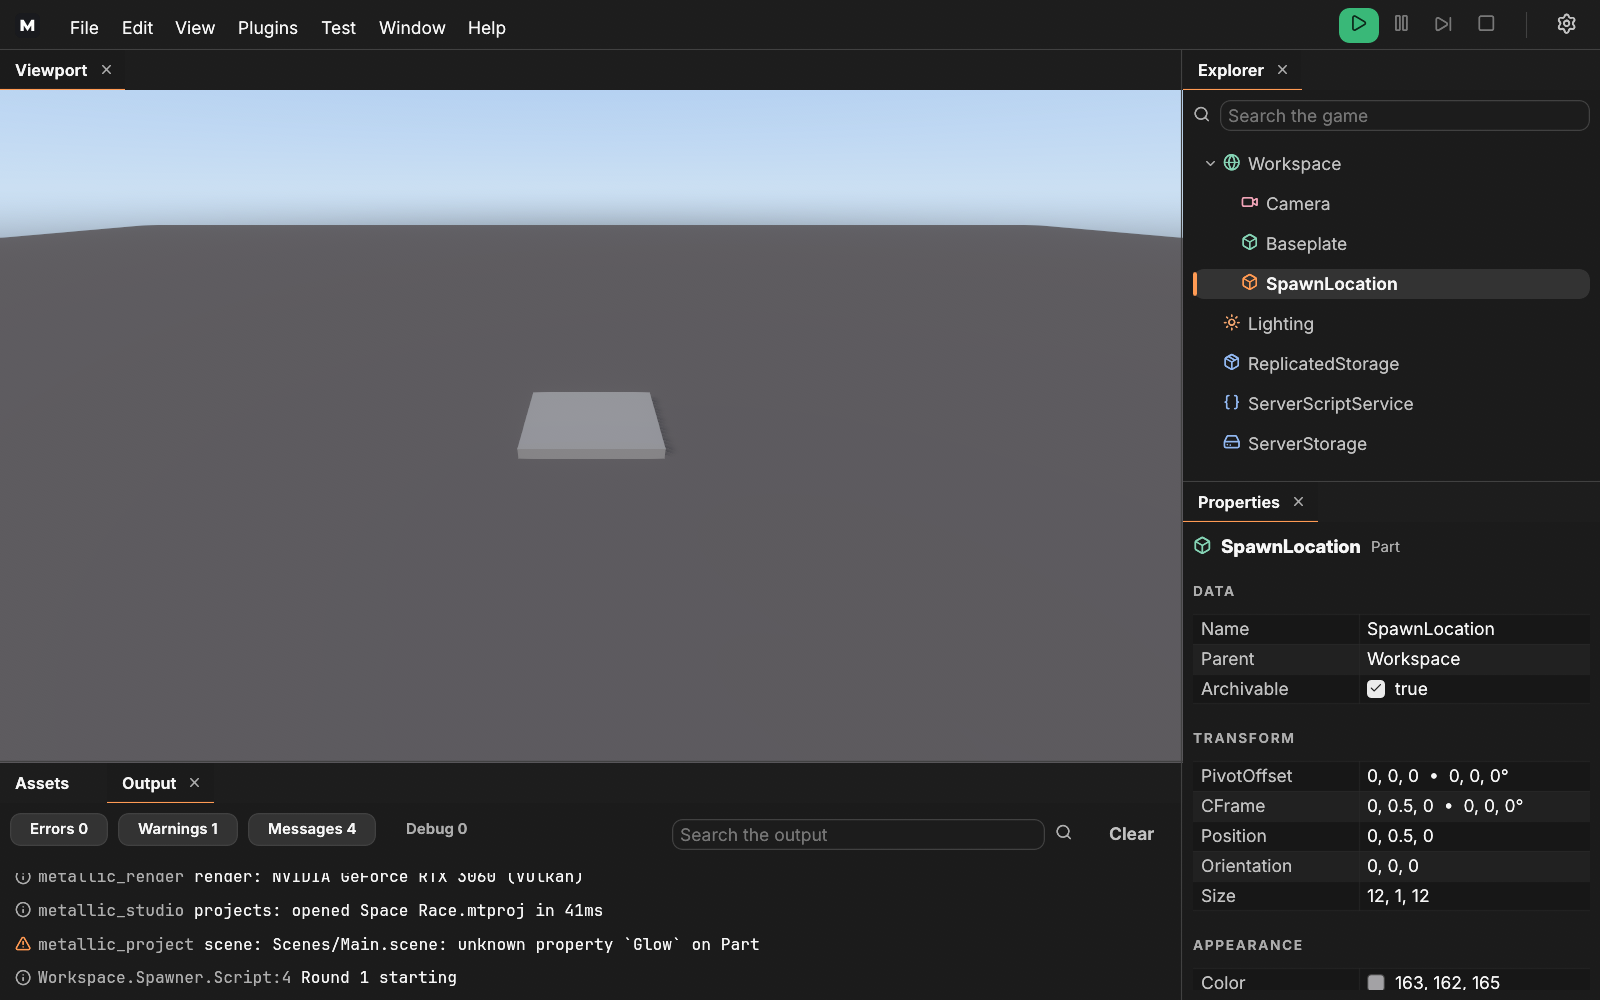
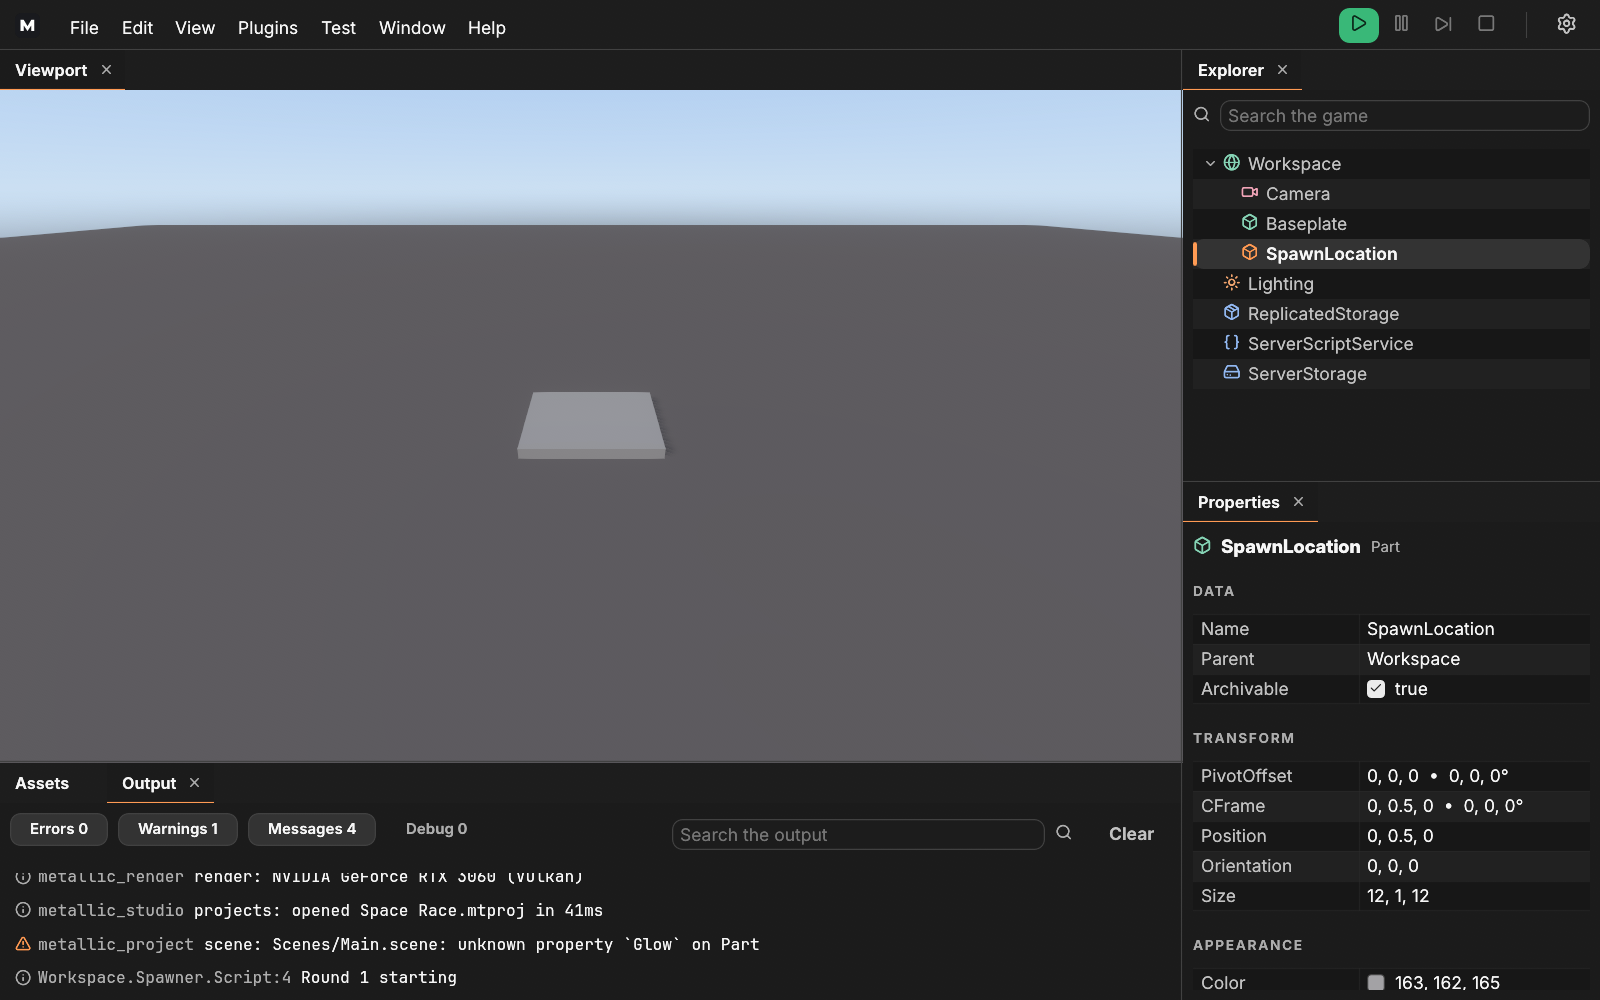
studio: Explorer rows striped and without gaps (#274) (#280)

Changed region(s): [[0.75, 0.186, 1.0, 0.465]]

diff --git a/apps/studio/src/panels/explorer.rs b/apps/studio/src/panels/explorer.rs
@@ -214,17 +214,20 @@ impl Panel for Explorer {
         if let Some(target) = editor.explorer.scroll_to.take()
             && let Some(index) = rows.iter().position(|row| row.id == target)
         {
-            let spacing = ui.spacing().item_spacing.y;
-            let top = index as f32 * (row_height + spacing);
+            // The rows touch (#274): no spacing between them.
+            let top = index as f32 * row_height;
             let view = ui.available_height();
             scroll = scroll.vertical_scroll_offset((top - view / 2.0).max(0.0));
         }
         let mut clicked = None;
         let mut toggled = None;
+        let shades = current_colors(ui.ctx()).palette.rows();
+        // The rows touch (#274), so the stripes are continuous, as the Properties panel's are.
+        ui.spacing_mut().item_spacing.y = 0.0;
         scroll.show_rows(ui, row_height, rows.len(), |ui, range| {
-            for row in &rows[range] {
+            for (index, row) in range.clone().zip(&rows[range]) {
                 let selected = *editor.selection == Some(row.id);
-                match row_ui(ui, editor.dm, *row, selected, searching) {
+                match row_ui(ui, editor.dm, *row, selected, searching, shades.fill(index)) {
                     RowAction::None => {}
                     RowAction::Select => clicked = Some(row.id),
                     RowAction::Toggle => toggled = Some(*row),
@@ -247,8 +250,9 @@ enum RowAction {
     Toggle,
 }
 
-/// One row: the caret, the class icon and the name; the selected row on a surface with the accent's bar.
-fn row_ui(ui: &mut Ui, dm: &DataModel, row: Row, selected: bool, searching: bool) -> RowAction {
+/// One row on its `stripe` (#274): the caret, the class icon and the name; the selected row on a surface with the
+/// accent's bar.
+fn row_ui(ui: &mut Ui, dm: &DataModel, row: Row, selected: bool, searching: bool, stripe: Color32) -> RowAction {
     let colors = current_colors(ui.ctx());
     let p = colors.palette;
     let name = dm.name(row.id).unwrap_or("?").to_owned();
@@ -265,6 +269,7 @@ fn row_ui(ui: &mut Ui, dm: &DataModel, row: Row, selected: bool, searching: bool
         None
     };
     if ui.is_rect_visible(rect) {
+        ui.painter().rect_filled(rect, CornerRadius::ZERO, stripe);
         let fill = if selected {
             p.surface_hover
         } else if response.hovered() {

diff --git a/apps/studio/src/app/mod.rs b/apps/studio/src/app/mod.rs
@@ -3328,6 +3328,41 @@ mod tests {
         harness.get_by_label("512, 16, 512");
     }
 
+    #[test]
+    fn explorer_rows_touch_and_alternate_shades() {
+        let mut harness = editing(settings_file("explorer-stripes", None), "Explorer Stripes Game");
+        harness.set_size(egui::vec2(1280.0, 800.0));
+        settle(&mut harness);
+        // The tree's rows, top to bottom: no gap between them (#274).
+        let mut items: Vec<egui::Rect> = harness
+            .get_all_by_role(Role::TreeItem)
+            .map(|item| item.rect())
+            .collect();
+        items.sort_by(|a, b| a.top().total_cmp(&b.top()));
+        assert!(items.len() >= 6, "{} rows", items.len());
+        for pair in items.windows(2) {
+            assert!((pair[1].top() - pair[0].bottom()).abs() < 0.01, "{pair:?}");
+        }
+        // Each row is on a stripe, and neighbours have the two shades.
+        let shades = tokens::DARK.rows();
+        let output = harness.output();
+        let stripe = |row: egui::Rect| {
+            output.shapes.iter().find_map(|clipped| match &clipped.shape {
+                egui::Shape::Rect(rect)
+                    if rect.rect == row && (rect.fill == shades.darker || rect.fill == shades.brighter) =>
+                {
+                    Some(rect.fill)
+                }
+                _ => None,
+            })
+        };
+        let fills: Vec<egui::Color32> = items.iter().map(|&row| stripe(row).expect("a striped row")).collect();
+        assert_eq!(fills[0], shades.darker, "the first row is the darker shade");
+        for pair in fills.windows(2) {
+            assert_ne!(pair[0], pair[1]);
+        }
+    }
+
     /// Runs `studio` for `frames` frames of `size` points at `pixels_per_point`, drawn by egui-wgpu on the engine's
     /// offscreen device as the shell draws them (the viewport too), calling `before(studio, frame)` before each.
     /// Returns the last frame as RGBA rows.

diff --git a/docs/adr/0009-studio-foundation.md b/docs/adr/0009-studio-foundation.md
@@ -96,7 +96,7 @@ One window, one state machine: **Splash → Sign in → Projects → Editor**. O
   window's edge has none. Settings → Appearance → Panel borders turns the lines off (on by default).
 - **Default layout:** Viewport in the centre; Explorer on the left with Assets as a tab beside it; Properties on the
   right; Output along the bottom.
-- **Panels in this slice:** Viewport; Explorer (the DataModel tree, selection, search); Properties (the selected
+- **Panels in this slice:** Viewport; Explorer (the DataModel tree, selection, search; since #274 its rows touch and are striped like Properties'); Properties (the selected
   instance's properties from `PropMeta`, **read-only in this slice**, since editing comes with undo); Assets (the
   `.mtproj`'s asset index, #188); Output (engine and script log, with filter and clear).
 
